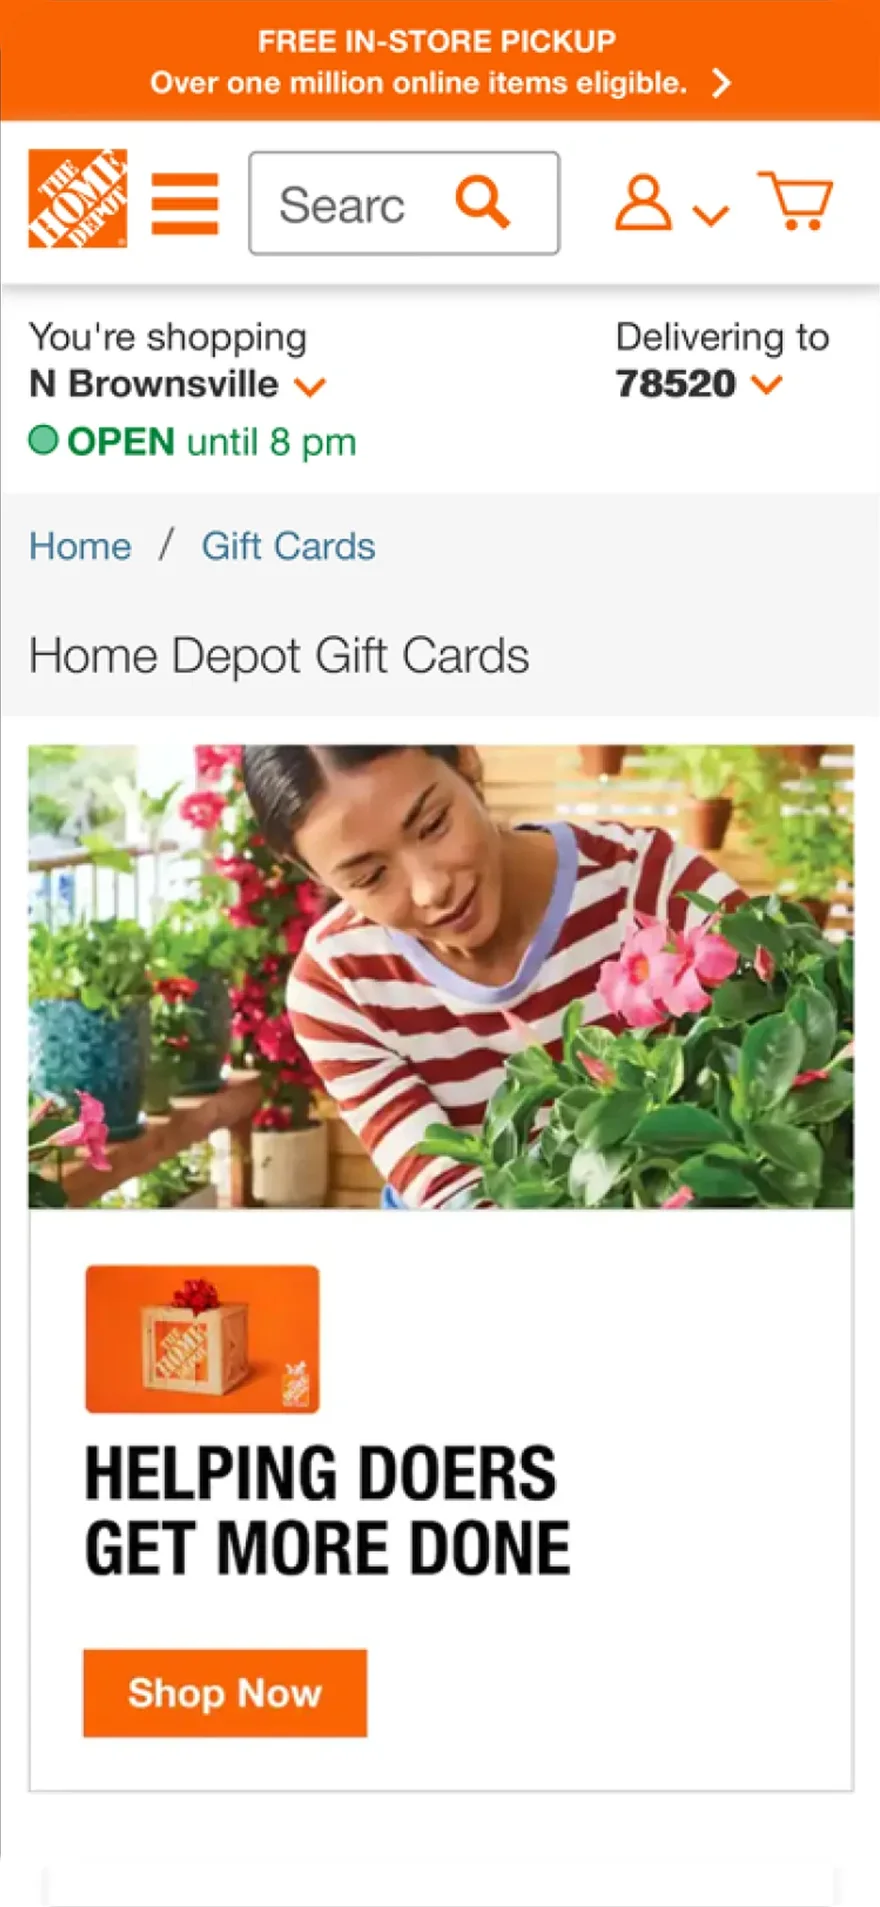
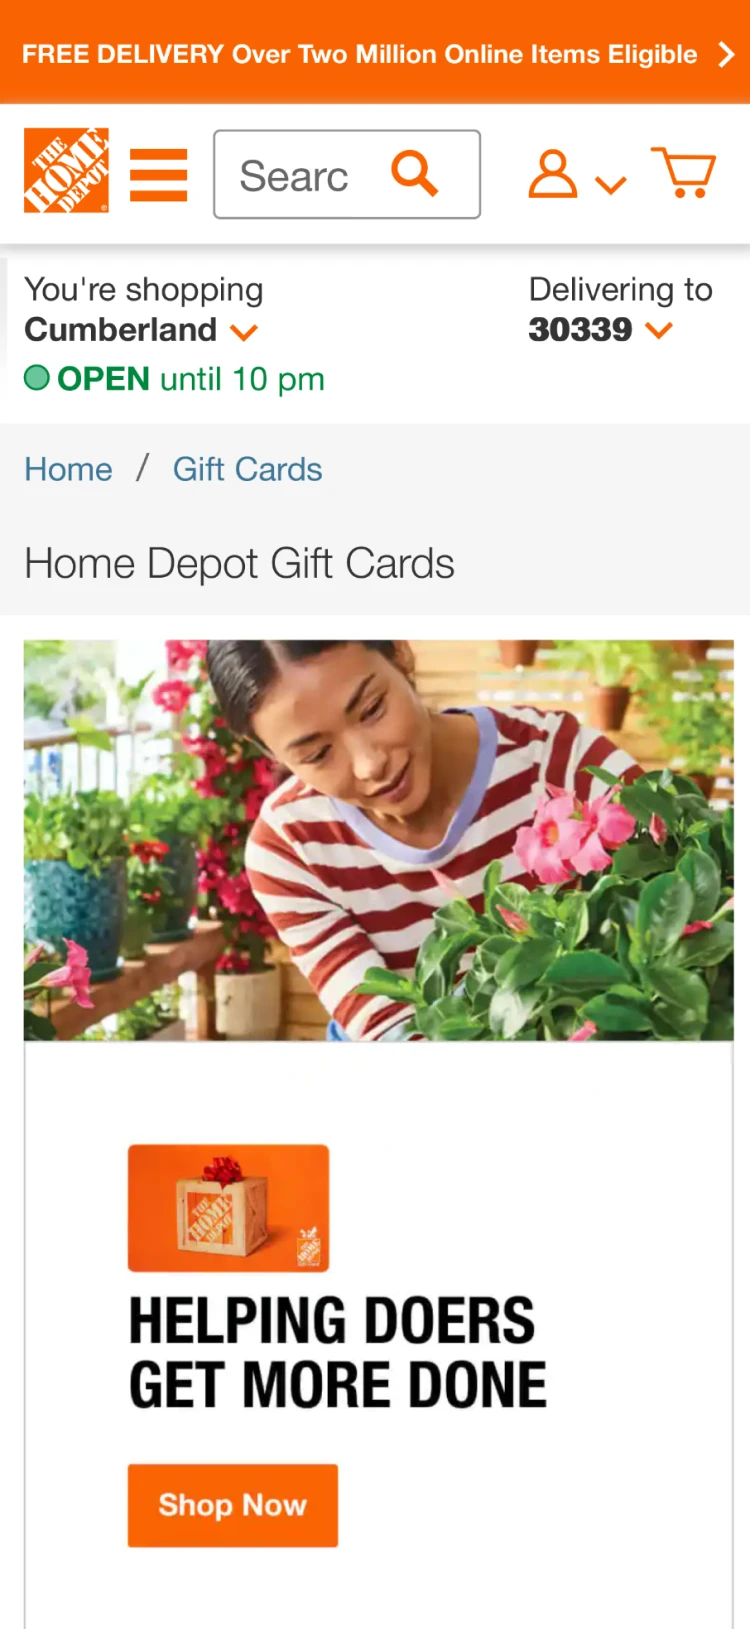
Replace original landing page screenshot, cropped to match redesign height
Claude-Session: https://claude.ai/code/session_01WY2xeAgVtGADv17PPHKTKz

diff --git a/work/thd-giftcards.html b/work/thd-giftcards.html
@@ -163,7 +163,7 @@
 <div class="nav-compare">
 <figure class="nav-col before">
 <div class="nav-label"><span class="sw"></span>Landing page — original</div>
-<div class="phone-frame-wide"><img src="/images/thd-landing-page-old.webp" width="880" height="1907" alt="Original Home Depot mobile gift card landing page with the Helping Doers Get More Done hero" loading="lazy" decoding="async"></div>
+<div class="phone-frame-wide"><img src="/images/thd-landing-page-old.webp" width="750" height="1629" alt="Original Home Depot mobile gift card landing page with the Helping Doers Get More Done hero" loading="lazy" decoding="async"></div>
 </figure>
 <figure class="nav-col after">
 <div class="nav-label"><span class="sw"></span>Landing page — redesigned</div>
